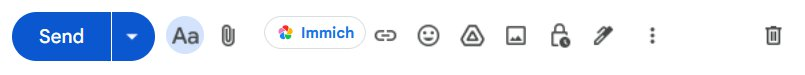
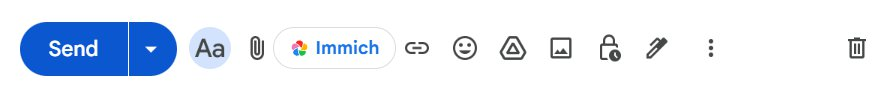
Add Chrome / Edge support alongside Firefox
The same source files now run in both browsers via a one-line
`globalThis.browser ||= globalThis.chrome` shim and a separate
`manifest.chrome.json` that uses the MV3 service-worker form.
`scripts/build_chrome.py` produces a loadable unpacked dir + zip.

- background.js onMessage now uses sendResponse + return true so Chrome
  doesn't drop the reply (Chrome MV3 ignores Promises returned from a
  listener; Firefox honours both).
- immichBytes returns base64 instead of an ArrayBuffer because Chrome's
  chrome.runtime.sendMessage JSON-serializes the payload, silently
  flattening ArrayBuffer to {}. Picker and content script decode at the
  receiver. Firefox round-trips the string unchanged.
- Toolbar button: bumped to 28px height with align-self: center to match
  Gmail's icon-button height, and pulled tight against the paperclip via
  a -12px left margin (Gmail's wrapper has its own right-side spacing).
- Picker: downgraded the "albums loaded" log from console.warn to
  console.log so chrome://extensions stops flagging it as a warning.

diff --git a/background.js b/background.js
@@ -1,3 +1,8 @@
+// Cross-browser shim: Firefox exposes `browser`, Chrome only `chrome`.
+// Modern Chrome (88+) returns Promises from chrome.* APIs, so the rest of
+// the file can use `browser.*` unchanged.
+globalThis.browser ||= globalThis.chrome;
+
 async function getConfig() {
   const { baseUrl, apiKey } = await browser.storage.local.get(["baseUrl", "apiKey"]);
   return {
@@ -65,6 +70,18 @@ async function immichJson(path, { method = "GET", body } = {}) {
   }
 }
 
+// Encode a binary array as base64 in chunks. Direct
+// String.fromCharCode(...new Uint8Array(buf)) blows the JS argument-count
+// limit on multi-MB images.
+function bytesToBase64(bytes) {
+  let bin = "";
+  const CHUNK = 0x8000;
+  for (let i = 0; i < bytes.length; i += CHUNK) {
+    bin += String.fromCharCode.apply(null, bytes.subarray(i, i + CHUNK));
+  }
+  return btoa(bin);
+}
+
 async function immichBytes(path) {
   const { baseUrl, apiKey } = await getConfig();
   if (!baseUrl) throw new Error("Immich URL not configured. Open Settings.");
@@ -80,13 +97,18 @@ async function immichBytes(path) {
     const text = await res.text().catch(() => "");
     throw new Error(explainHttp("GET", url, res.status, text));
   }
-  const buffer = await res.arrayBuffer();
+  // Return base64. Chrome's chrome.runtime.sendMessage JSON-serializes the
+  // payload, which silently drops ArrayBuffer to {}. Firefox uses structured
+  // clone and would preserve the buffer, but encoding unconditionally keeps
+  // a single transport path across browsers. Recipients decode via atob.
+  const bytes = new Uint8Array(await res.arrayBuffer());
+  const data = bytesToBase64(bytes);
   const mime = res.headers.get("Content-Type") || "application/octet-stream";
   const disposition = res.headers.get("Content-Disposition") || "";
   let filename = "";
   const m = /filename\*?=(?:UTF-8'')?["']?([^"';]+)/i.exec(disposition);
   if (m) filename = decodeURIComponent(m[1]);
-  return { buffer, mime, filename };
+  return { data, mime, filename };
 }
 
 const handlers = {
@@ -158,11 +180,15 @@ browser.runtime.onInstalled.addListener(async (details) => {
   }
 });
 
-browser.runtime.onMessage.addListener((msg, sender) => {
+// Use the sendResponse + return true pattern. Chrome MV3 ignores a Promise
+// returned from a listener, so a Firefox-only Promise return would silently
+// drop replies in Chrome. This pattern works in both browsers.
+browser.runtime.onMessage.addListener((msg, sender, sendResponse) => {
   const fn = handlers[msg && msg.type];
   if (!fn) return false;
-  return Promise.resolve()
+  Promise.resolve()
     .then(() => fn(msg.payload || {}))
-    .then((data) => ({ ok: true, data }))
-    .catch((e) => ({ ok: false, error: String(e.message || e) }));
+    .then((data) => sendResponse({ ok: true, data }))
+    .catch((e) => sendResponse({ ok: false, error: String(e.message || e) }));
+  return true;
 });

diff --git a/picker/picker.js b/picker/picker.js
@@ -1,3 +1,6 @@
+// Cross-browser shim: see background.js.
+globalThis.browser ||= globalThis.chrome;
+
 (async () => {
   const { baseUrl, apiKey } = await browser.storage.local.get(["baseUrl", "apiKey"]);
   if (!baseUrl || !apiKey) {
@@ -127,14 +130,21 @@ function initPicker() {
   function showError(msg) { setStatus("error", String(msg)); }
   function clearError() { if (!els.error.hidden) setStatus("none"); }
 
+  function base64ToBytes(b64) {
+    const bin = atob(b64);
+    const bytes = new Uint8Array(bin.length);
+    for (let i = 0; i < bin.length; i++) bytes[i] = bin.charCodeAt(i);
+    return bytes;
+  }
+
   async function loadThumb(assetId, imgEl) {
     if (state.thumbCache.has(assetId)) {
       imgEl.src = state.thumbCache.get(assetId);
       return;
     }
     try {
-      const { buffer, mime } = await call("fetchThumbnail", { assetId, size: "preview" });
-      const blob = new Blob([buffer], { type: mime || "image/jpeg" });
+      const { data, mime } = await call("fetchThumbnail", { assetId, size: "preview" });
+      const blob = new Blob([base64ToBytes(data)], { type: mime || "image/jpeg" });
       const url = URL.createObjectURL(blob);
       state.thumbCache.set(assetId, url);
       imgEl.src = url;
@@ -329,7 +339,10 @@ function initPicker() {
     setStatus("loading");
     try {
       const albums = await call("listAlbums");
-      console.warn("[immich-picker] albums loaded:", Array.isArray(albums) ? albums.length : albums);
+      // console.log (not warn): Chrome's chrome://extensions error log
+      // captures console.warn output, which made this informational line
+      // show up as a flagged warning.
+      console.log("[immich-picker] albums loaded:", Array.isArray(albums) ? albums.length : albums);
       state.allAlbums = Array.isArray(albums) ? albums : [];
       applyAlbumFilter();
     } catch (e) {

diff --git a/content/content.css b/content/content.css
@@ -1,18 +1,24 @@
 .immich-attach-btn {
   display: inline-flex;
   align-items: center;
+  align-self: center;
+  box-sizing: border-box;
   gap: 4px;
-  margin: 0 4px;
-  padding: 0 8px;
+  /* Negative left margin pulls the button tight against the paperclip;
+     Gmail's paperclip wrapper has its own right-side spacing that we can
+     only counter from this side. Right margin keeps natural breathing
+     room from the link icon. */
+  margin: 0 4px 0 -12px;
+  padding: 0 10px;
   border: 1px solid #dadce0;
-  border-radius: 12px;
+  border-radius: 14px;
   background: #ffffff;
   color: #1a73e8;
   font-family: "Google Sans", Roboto, Arial, sans-serif;
-  font-size: 11px;
+  font-size: 12px;
   font-weight: 600;
   cursor: pointer;
-  height: 24px;
+  height: 28px;
   line-height: 1;
   vertical-align: middle;
   white-space: nowrap;

diff --git a/content/content.js b/content/content.js
@@ -1,4 +1,7 @@
 (() => {
+  // Cross-browser shim: see background.js.
+  globalThis.browser ||= globalThis.chrome;
+
   // Guard against double-injection on extension reload, otherwise duplicate
   // click handlers would fire and produce duplicate attachments.
   if (window.__IMMICH_CONTENT_LOADED__) return;
@@ -134,6 +137,13 @@
     return { buffer: outBuffer, mime: "image/jpeg", filename: newName };
   }
 
+  function base64ToBuffer(b64) {
+    const bin = atob(b64);
+    const bytes = new Uint8Array(bin.length);
+    for (let i = 0; i < bin.length; i++) bytes[i] = bin.charCodeAt(i);
+    return bytes.buffer;
+  }
+
   async function attachAssetsToCompose(compose, assetIds, options) {
     log("attaching", assetIds.length, "asset(s)", "opts:", options);
     const files = [];
@@ -146,7 +156,8 @@
         warn("fetchOriginal failed", id, resp && resp.error);
         continue;
       }
-      let { buffer, mime, filename } = resp.data;
+      let { data, mime, filename } = resp.data;
+      let buffer = base64ToBuffer(data);
       log("fetched", filename, buffer.byteLength, "bytes,", mime);
       const processed = await processImage(buffer, mime, filename, options);
       if (processed) {

diff --git a/options/options.js b/options/options.js
@@ -1,3 +1,6 @@
+// Cross-browser shim: see background.js.
+globalThis.browser ||= globalThis.chrome;
+
 const $ = (id) => document.getElementById(id);
 
 async function load() {

diff --git a/scripts/build_chrome.py b/scripts/build_chrome.py
@@ -1,0 +1,74 @@
+"""Build a Chrome-compatible zip of the extension.
+
+Reads manifest.chrome.json, copies the runtime files into a staging directory
+under web-ext-artifacts/chrome/, and zips it as
+web-ext-artifacts/immich-photos-for-gmail-X.Y.Z-chrome.zip.
+
+The same source .js/.css/.html files are reused — only the manifest differs
+between the Firefox and Chrome builds.
+"""
+
+import json
+import shutil
+from pathlib import Path
+from zipfile import ZIP_DEFLATED, ZipFile
+
+ROOT = Path(__file__).resolve().parent.parent
+OUT_DIR = ROOT / "web-ext-artifacts"
+STAGE_DIR = OUT_DIR / "chrome"
+
+# Files that go into the Chrome build, relative to repo root. The Chrome
+# manifest is written as `manifest.json` inside the zip.
+INCLUDE = [
+    "background.js",
+    "page-bridge.js",
+    "content/content.js",
+    "content/content.css",
+    "picker/picker.html",
+    "picker/picker.js",
+    "picker/picker.css",
+    "options/options.html",
+    "options/options.js",
+    "icons/icon-48.png",
+    "icons/icon-96.png",
+    "icons/icon-128.png",
+    "icons/icon-512.png",
+]
+
+
+def main() -> None:
+    manifest_src = ROOT / "manifest.chrome.json"
+    manifest = json.loads(manifest_src.read_text(encoding="utf-8"))
+    version = manifest["version"]
+
+    if STAGE_DIR.exists():
+        shutil.rmtree(STAGE_DIR)
+    STAGE_DIR.mkdir(parents=True)
+
+    (STAGE_DIR / "manifest.json").write_text(
+        json.dumps(manifest, indent=2) + "\n", encoding="utf-8"
+    )
+
+    for rel in INCLUDE:
+        src = ROOT / rel
+        if not src.exists():
+            raise SystemExit(f"missing source file: {rel}")
+        dst = STAGE_DIR / rel
+        dst.parent.mkdir(parents=True, exist_ok=True)
+        shutil.copy2(src, dst)
+
+    zip_path = OUT_DIR / f"immich-photos-for-gmail-{version}-chrome.zip"
+    if zip_path.exists():
+        zip_path.unlink()
+
+    with ZipFile(zip_path, "w", ZIP_DEFLATED) as zf:
+        for path in sorted(STAGE_DIR.rglob("*")):
+            if path.is_file():
+                zf.write(path, path.relative_to(STAGE_DIR))
+
+    print(f"built {zip_path}")
+    print(f"unpacked dir: {STAGE_DIR}")
+
+
+if __name__ == "__main__":
+    main()

diff --git a/README.md b/README.md
@@ -7,8 +7,9 @@
 [![Ko-fi](https://img.shields.io/badge/Support-Ko--fi-FF5E5B?logo=ko-fi&logoColor=white)](https://ko-fi.com/richard1912)
 [![License: MIT](https://img.shields.io/badge/License-MIT-blue.svg)](LICENSE)
 [![Firefox](https://img.shields.io/badge/Firefox-128%2B-FF7139?logo=firefox-browser&logoColor=white)](https://www.mozilla.org/firefox/)
+[![Chrome](https://img.shields.io/badge/Chrome-MV3-4285F4?logo=google-chrome&logoColor=white)](https://www.google.com/chrome/)
 
-A Firefox extension that lets you attach photos from your self-hosted [Immich](https://immich.app) library directly to Gmail emails. No more download, then re-upload round trip.
+A browser extension that lets you attach photos from your self-hosted [Immich](https://immich.app) library directly to Gmail emails. No more download, then re-upload round trip. Works in **Firefox** and **Chrome / Edge**.
 
 <p align="center">
   <em>Recent, Search, Albums. Pick photos in two clicks. Attached as native Gmail files.</em>
@@ -45,11 +46,22 @@ A Firefox extension that lets you attach photos from your self-hosted [Immich](h
 
 ## Install
 
+### Firefox
+
 > Mozilla AMO listing pending. For now, the extension is distributed as a signed `.xpi` via GitHub Releases.
 
 1. Download the latest `immich-photos-for-gmail-X.Y.Z.xpi` from the [Releases page](https://github.com/richard1912/immich-photos-for-gmail/releases).
 2. Open Firefox → `about:addons`.
 3. Drag the `.xpi` onto the page (or click the gear icon → **Install Add-on From File…**).
+4. Approve the permission prompt for `mail.google.com`.
+
+### Chrome / Edge
+
+> Chrome Web Store listing pending. For now, load as an unpacked extension.
+
+1. Download `immich-photos-for-gmail-X.Y.Z-chrome.zip` from the [Releases page](https://github.com/richard1912/immich-photos-for-gmail/releases) and unzip it (or [build from source](#chrome--edge-build)).
+2. Open `chrome://extensions` (or `edge://extensions`) and enable **Developer mode**.
+3. Click **Load unpacked** and select the unzipped folder.
 4. Approve the permission prompt for `mail.google.com`.
 
 The settings page will open automatically on first install.
@@ -61,7 +73,7 @@ The settings page will open automatically on first install.
 3. In the extension settings tab:
    - **Immich base URL**: e.g. `https://immich.example.com` (no trailing slash).
    - **API key**: paste the key.
-4. Click **Save & Connect**. Firefox will request permission to access your Immich origin; accept it. The extension verifies the credentials by hitting `/api/users/me`.
+4. Click **Save & Connect**. The browser will request permission to access your Immich origin; accept it. The extension verifies the credentials by hitting `/api/users/me`.
 5. Open Gmail → click **Compose** → an **Immich** button appears next to the paperclip.
 
 ## Usage
@@ -92,15 +104,29 @@ To install the unsigned development build, you need [Firefox Developer Edition](
 
 For a signed build that installs in stock Firefox, use [`web-ext sign`](https://extensionworkshop.com/documentation/develop/web-ext-command-reference/#sign) with your Mozilla AMO API credentials.
 
+### Chrome / Edge build
+
+```bash
+python scripts/build_chrome.py
+```
+
+This produces `web-ext-artifacts/immich-photos-for-gmail-X.Y.Z-chrome.zip` and an unpacked staging directory at `web-ext-artifacts/chrome/`. To load it:
+
+1. Open `chrome://extensions` (or `edge://extensions`).
+2. Enable **Developer mode**.
+3. Click **Load unpacked** and select `web-ext-artifacts/chrome/`.
+
+The Chrome build uses `manifest.chrome.json` as its source-of-truth manifest. The same `.js` / `.css` / `.html` files are reused — a small `globalThis.browser ||= globalThis.chrome` shim at the top of each script makes them work in both browsers.
+
 ## Compatibility
 
 - **Firefox 128+** (Manifest V3 with `optional_host_permissions` and `world: "MAIN"` content scripts).
+- **Chrome / Edge** via a separate build (see [Building from source](#building-from-source)). The Chrome build uses the same source files with a service-worker manifest and is loaded as an unpacked extension.
 - Tested on the modern Gmail UI (`mail.google.com`).
-- Chrome / Edge: not currently supported. The MV3 service-worker variant would need separate testing.
 
 ## Limitations
 
-- HEIC / HEIF / RAW originals can't be re-encoded by Firefox's `createImageBitmap`. With the resize option on, those files are sent as their original bytes.
+- HEIC / HEIF / RAW originals can't be re-encoded by the browser's `createImageBitmap`. With the resize option on, those files are sent as their original bytes.
 - Gmail's 25MB attachment ceiling still applies. Large originals will be rejected by Gmail (the chip will appear, then disappear with an error). Use the resize option for big photos.
 
 ## Support development